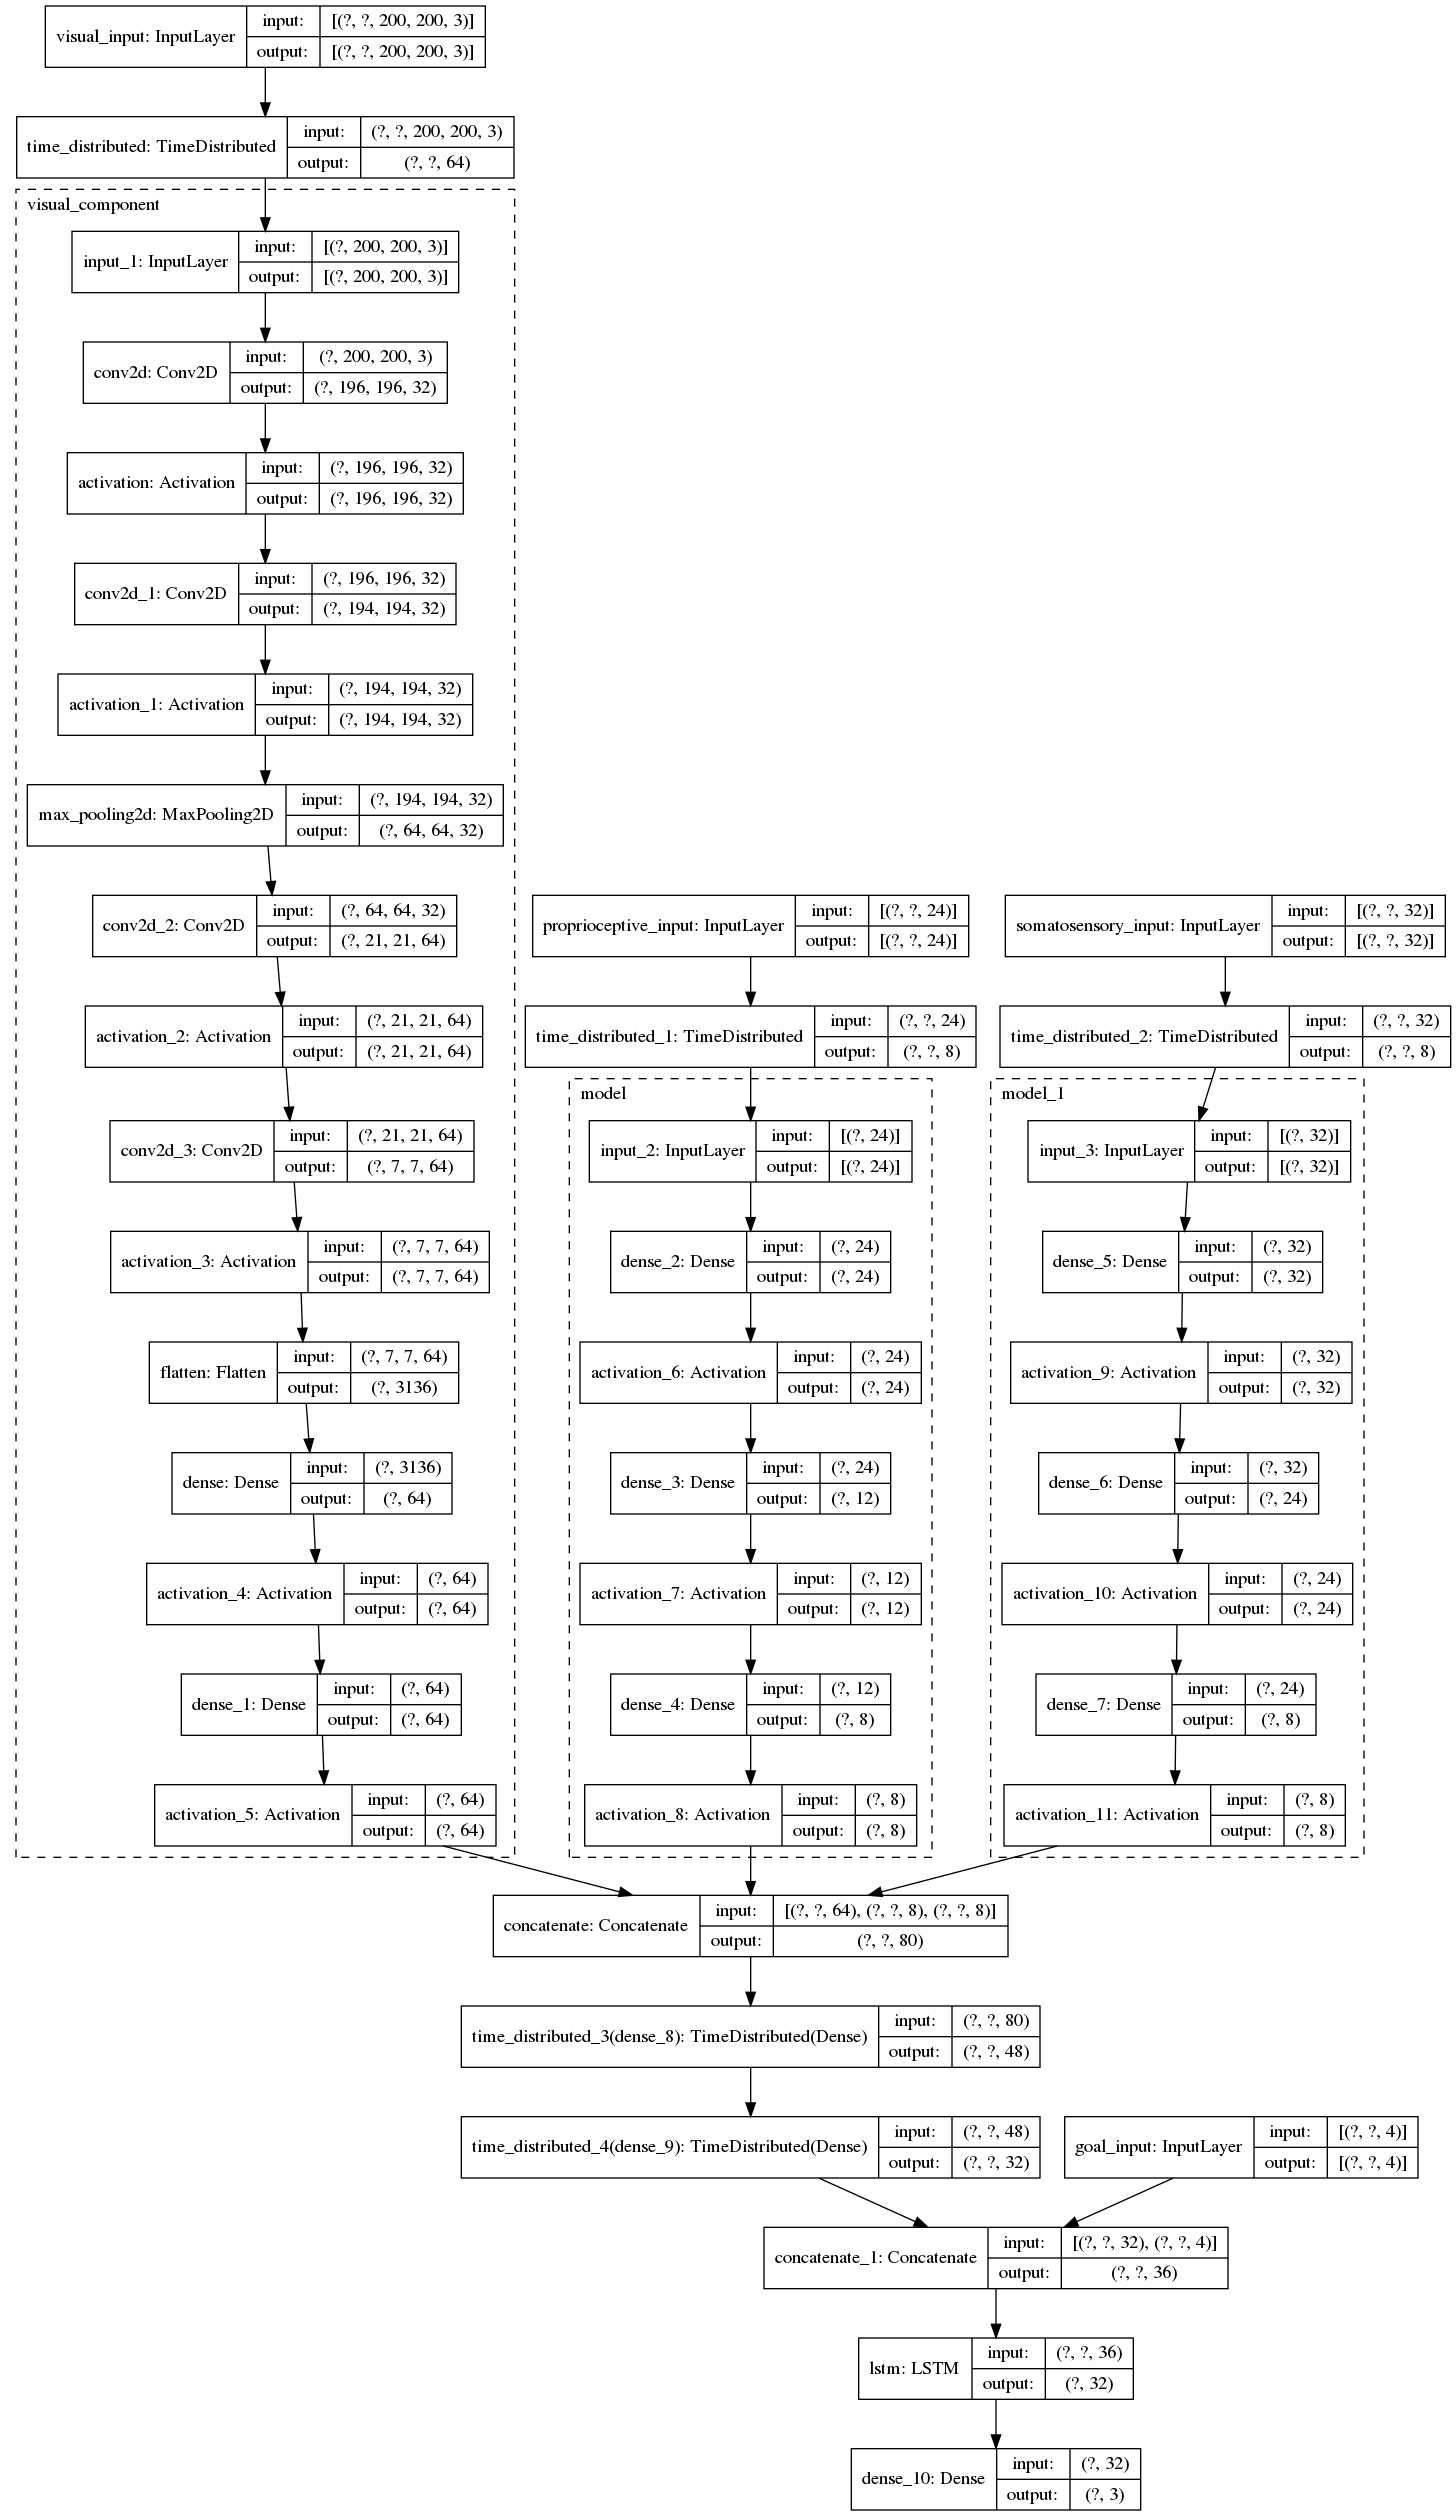
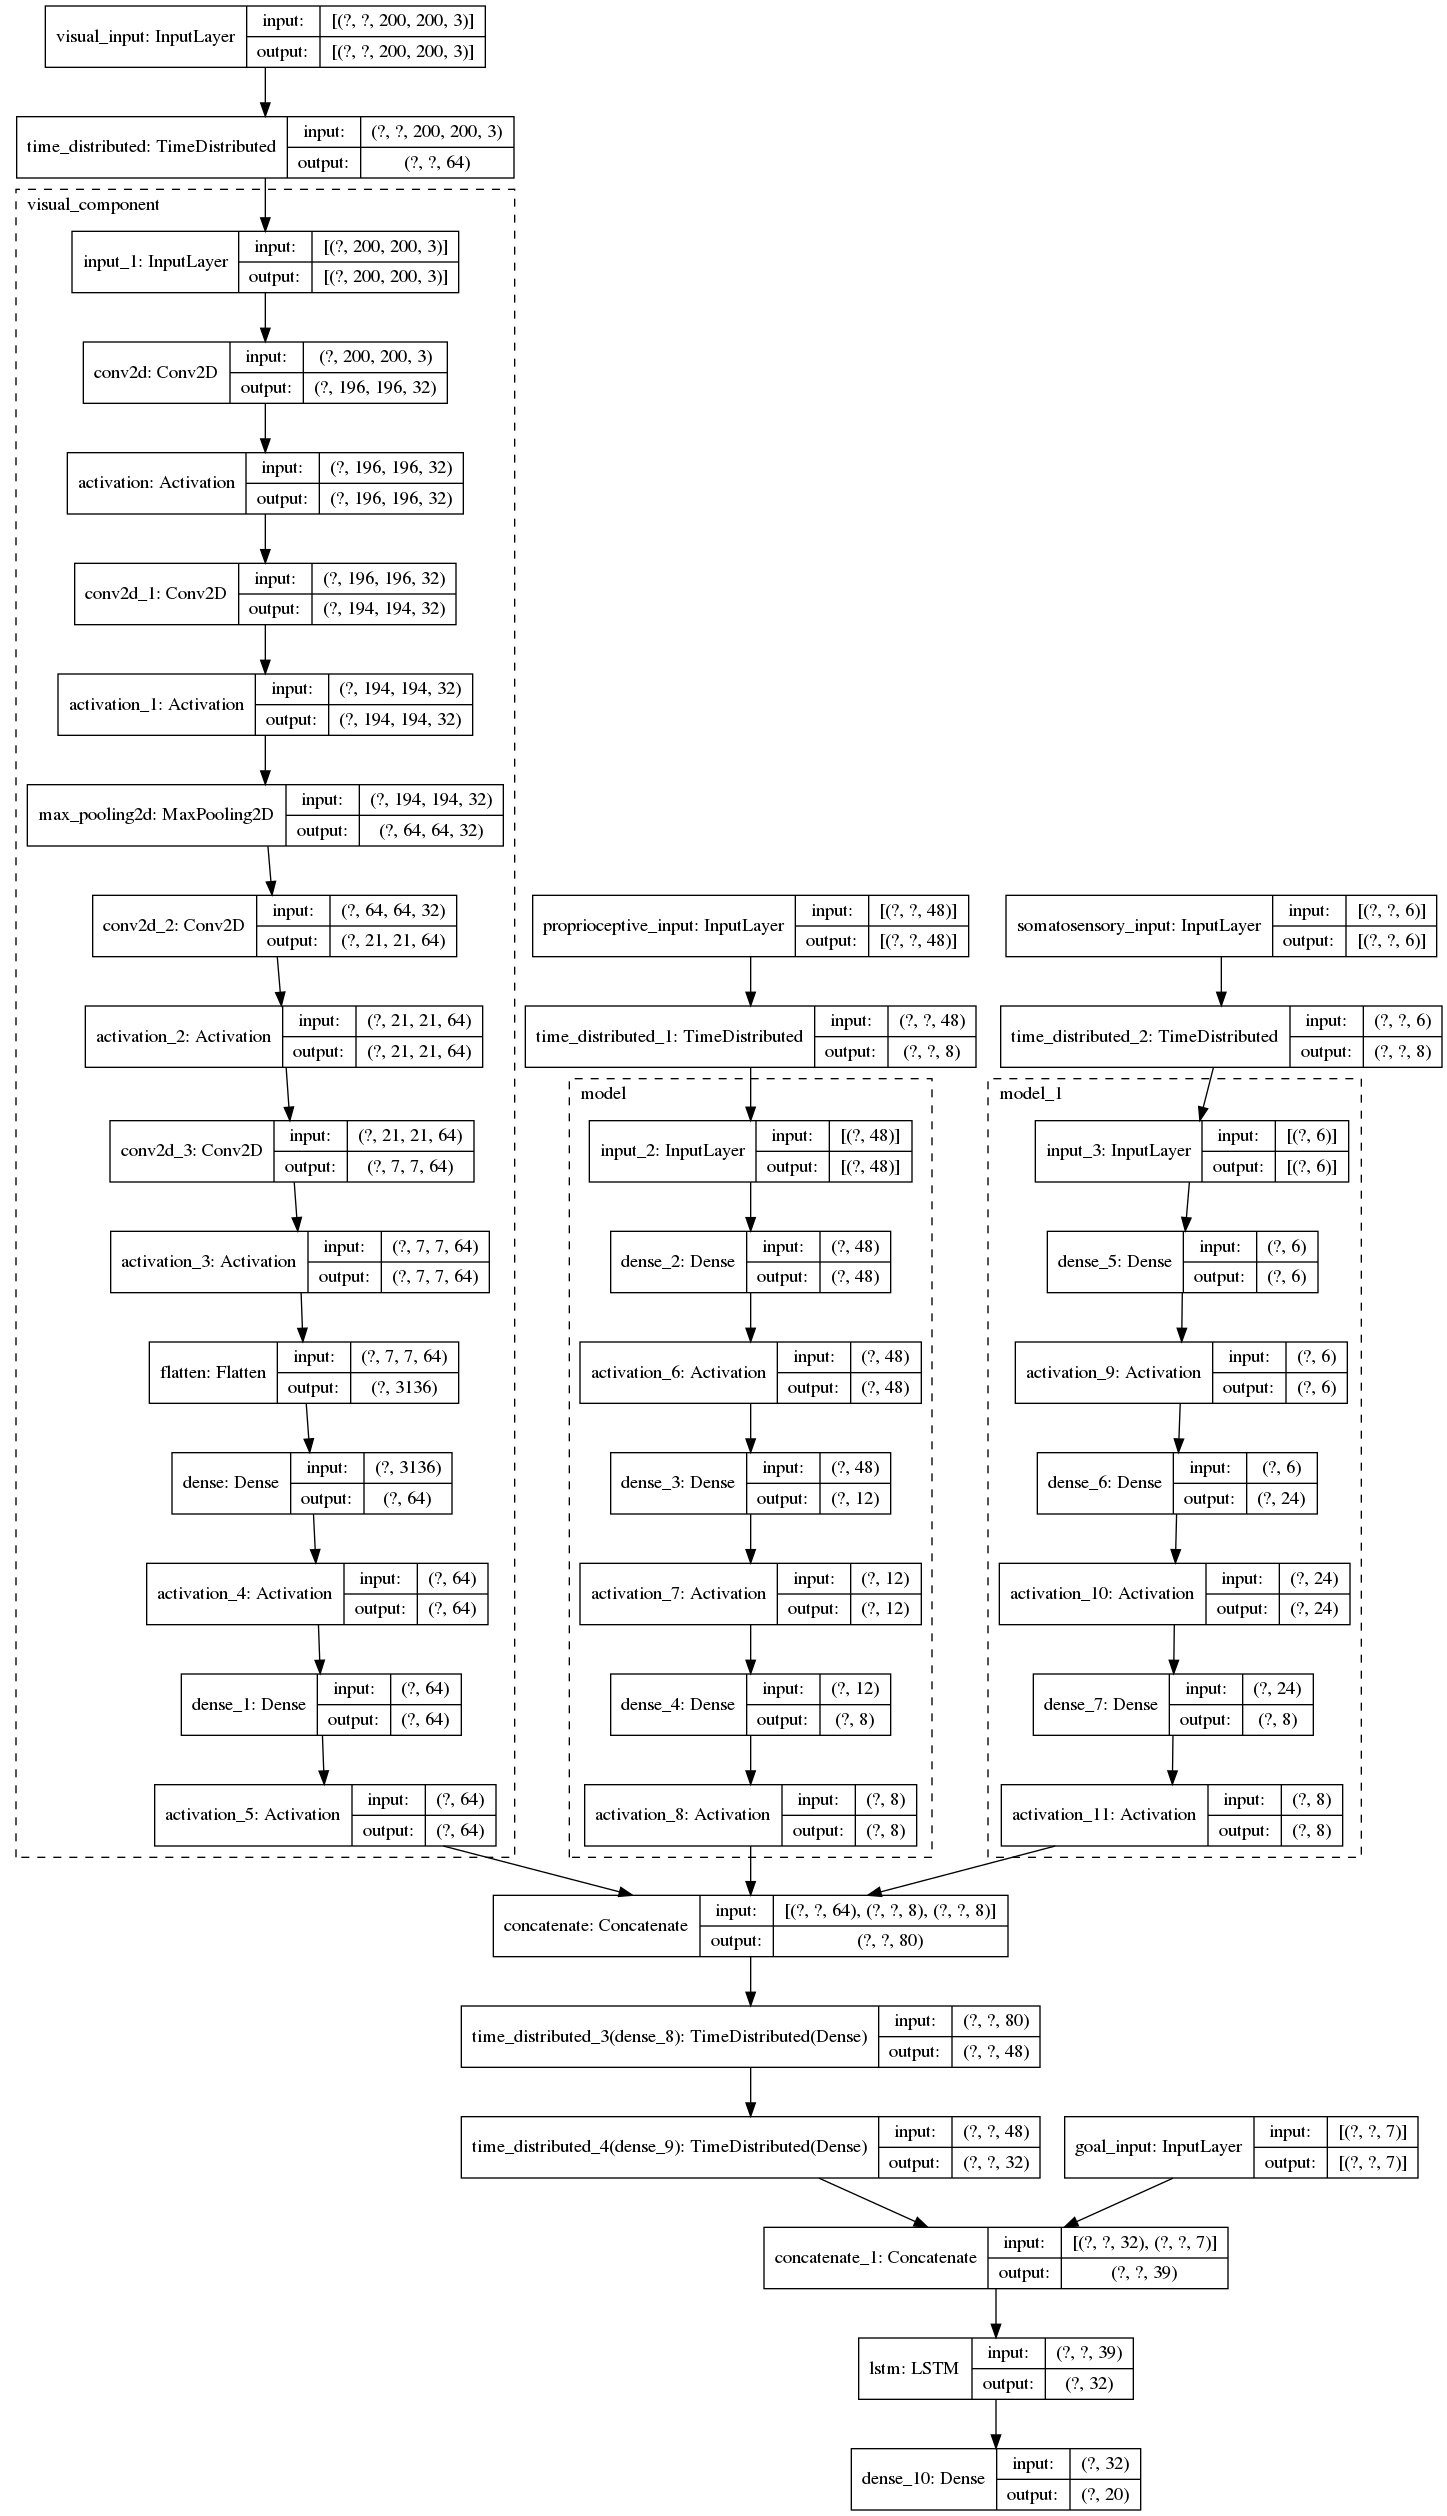
Several Adjustments including seperate ShadowHand Environment with visual rendering and GLFWinitialization for this purpose.

diff --git a/train.py b/train.py
@@ -7,6 +7,7 @@ from gym.spaces import Box
 from agent.ppo import PPOAgent
 from environments import *
 from models.fully_connected import build_ffn_distinct_models
+from models.hybrid import build_shadow_brain
 from utilities.const import COLORS
 from utilities.story import StoryTeller
 from utilities.util import env_extract_dims
@@ -17,7 +18,11 @@ os.environ['TF_CPP_MIN_LOG_LEVEL'] = '3'
 def run_experiment(settings: argparse.Namespace):
     """Run an experiment with the given settings."""
 
-    build_models = build_ffn_distinct_models
+    # setting appropriate model building function
+    if settings.env == "ShadowHand-v1":
+        build_models = build_shadow_brain
+    else:
+        build_models = build_ffn_distinct_models
 
     if settings.debug:
         logging.warning("YOU ARE RUNNING IN DEBUG MODE!")
@@ -31,17 +36,20 @@ def run_experiment(settings: argparse.Namespace):
 
     # announce experiment
     bc, ec, wn = COLORS["HEADER"], COLORS["ENDC"], COLORS["WARNING"]
-    print(f"{wn}-----------------------------------------{ec}\n"
-          f"Learning the Task: {bc}{env_name}{ec}\n"
+    print(f"-----------------------------------------\n"
+          f"{wn}Learning the Task{ec}: {bc}{env_name}{ec}\n"
           f"{bc}{state_dimensionality}{ec}-dimensional states ({bc}{env_observation_space_type}{ec}) "
           f"and {bc}{number_of_actions}{ec} actions ({bc}{env_action_space_type}{ec}).\n"
-          f"{wn}-----------------------------------------{ec}\n")
+          f"Model: {build_models.__name__}\n"
+          f"-----------------------------------------\n")
+
+    print(f"{wn}HyperParameters{ec}: {args}\n")
 
     if settings.cpu:
         os.environ['CUDA_VISIBLE_DEVICES'] = '-1'
 
     if settings.load_from is not None:
-        print(f"Loading from state {settings.load_from}")
+        print(f"{wn}Loading{ec} from state {settings.load_from}")
         agent = PPOAgent.from_agent_state(settings.load_from)
     else:
         # set up the agent and a reporting module
@@ -50,7 +58,7 @@ def run_experiment(settings: argparse.Namespace):
                          clip=settings.clip, c_entropy=settings.c_entropy, c_value=settings.c_value, lam=settings.lam,
                          gradient_clipping=settings.grad_norm, clip_values=settings.no_value_clip)
 
-        print(f"Created agent with ID {agent.agent_id}")
+        print(f"{wn}Created agent{ec} with ID {bc}{agent.agent_id}{ec}")
 
     agent.set_gpu(not settings.cpu)
     teller = StoryTeller(agent, env, frequency=0)
@@ -69,7 +77,7 @@ if __name__ == "__main__":
     # parse commandline arguments
     parser = argparse.ArgumentParser(description="Train a PPO Agent on some task.")
 
-    parser.add_argument("-e", "--env", type=str, default="CartPole-v1", help=f"the environment, e.g.: {all_envs}")
+    parser.add_argument("-e", "--env", type=str, default="ShadowHand-v0", help=f"the environment, e.g.: {all_envs}")
     parser.add_argument("-w", "--workers", type=int, default=4, help=f"the number of workers exploring the environment")
     parser.add_argument("--epochs", type=int, default=3, help=f"the number of optimization epochs in each cycle")
     parser.add_argument("--horizon", type=int, default=1024, help=f"the number of optimization epochs in each cycle")

diff --git a/environments/shadowhand.py b/environments/shadowhand.py
@@ -7,8 +7,10 @@ import numpy
 from gym.envs.robotics import HandBlockEnv
 import matplotlib.pyplot as plt
 
+from mujoco_py import GlfwContext
 
-class ShadowHand(HandBlockEnv):
+
+class ShadowHandBase(HandBlockEnv):
     """Wrapper for the In Hand Manipulation Environment."""
 
     def __init__(self, target_position='random', target_rotation='xyz', reward_type='not_sparse', max_steps=100):
@@ -23,6 +25,16 @@ class ShadowHand(HandBlockEnv):
         # background color
         self.sim.model.mat_rgba[4] = numpy.array([104, 143, 71, 255]) / 255
 
+        # other
+        self.goal_dim = 4 + 3
+        self.joint_dim = 24 + 24
+        self.object_dim = 6
+
+        # init rendering in background
+        GlfwContext(offscreen=True)
+
+        self.reset()
+
     def _viewer_setup(self):
         super()._viewer_setup()
 
@@ -32,7 +44,6 @@ class ShadowHand(HandBlockEnv):
         self.viewer.cam.elevation = -90.0
 
     def _convert_obs(self, obs):
-        # frame = self.render(mode="rgb_array", height=200, width=200)
         return numpy.concatenate([obs["observation"], obs["desired_goal"]])
 
     def step(self, action):
@@ -47,6 +58,18 @@ class ShadowHand(HandBlockEnv):
         obs = super().reset()
         self.total_steps = 0
         return self._convert_obs(obs)
+
+
+class ShadowHandV1(ShadowHandBase):
+
+    def _convert_obs(self, obs):
+        visual = self.render(mode="rgb_array", height=200, width=200)
+        proprio = obs["observation"][:self.joint_dim]
+        somato = obs["observation"][-self.object_dim:]
+        goal = obs["desired_goal"]
+
+        return visual, proprio, somato, goal
+
 
 
 if __name__ == "__main__":

diff --git a/environments/__init__.py b/environments/__init__.py
@@ -5,14 +5,20 @@ from environments.evasion import Evasion
 from environments.race import Race
 from environments.tunnel import Tunnel, TunnelRAM
 from environments.evasionwalls import EvasionWalls
-from environments.shadowhand import ShadowHand
+from environments.shadowhand import ShadowHandBase, ShadowHandV1
 
 
 # SHADOW HAND #
 
 gym.envs.register(
     id='ShadowHand-v0',
-    entry_point='environments:ShadowHand',
+    entry_point='environments:ShadowHandBase',
+    kwargs={},
+)
+
+gym.envs.register(
+    id='ShadowHand-v1',
+    entry_point='environments:ShadowHandV1',
     kwargs={},
 )
 

diff --git a/agent/gather.py b/agent/gather.py
@@ -4,7 +4,6 @@ import itertools
 import multiprocessing
 import os
 from collections import namedtuple
-from time import sleep
 from typing import Tuple, List
 
 import numpy
@@ -106,8 +105,6 @@ def tf_serialize_example(sample):
 
 @ray.remote(num_cpus=1)
 def collect(model, horizon: int, env_name: str, discount: float, lam: float, pid: int):
-    import tensorflow as tfl
-
     # build new environment for each collector to make multiprocessing possible
     env = gym.make(env_name)
     env_is_continuous = isinstance(env.action_space, Box)

diff --git a/models/fully_connected.py b/models/fully_connected.py
@@ -81,7 +81,7 @@ def build_ffn_shared_models(env: gym.Env):
     if continuous_control:
         means = tf.keras.layers.Dense(n_actions)(latent_representation)
         means = tf.keras.layers.Activation("linear")(means)
-        stdevs = tf.keras.layers.Dense(n_actions)(x)
+        stdevs = tf.keras.layers.Dense(n_actions)(latent_representation)
         stdevs = tf.keras.layers.Activation("softplus")(stdevs)
 
         policy_out = tf.keras.layers.Concatenate()([means, stdevs])

diff --git a/models/__init__.py b/models/__init__.py
@@ -1,2 +1,5 @@
+"""A collection of builder functions for models usable with different environments in PPO."""
+
 from models.convolutional import *
 from models.fully_connected import *
+from models.hybrid import *
